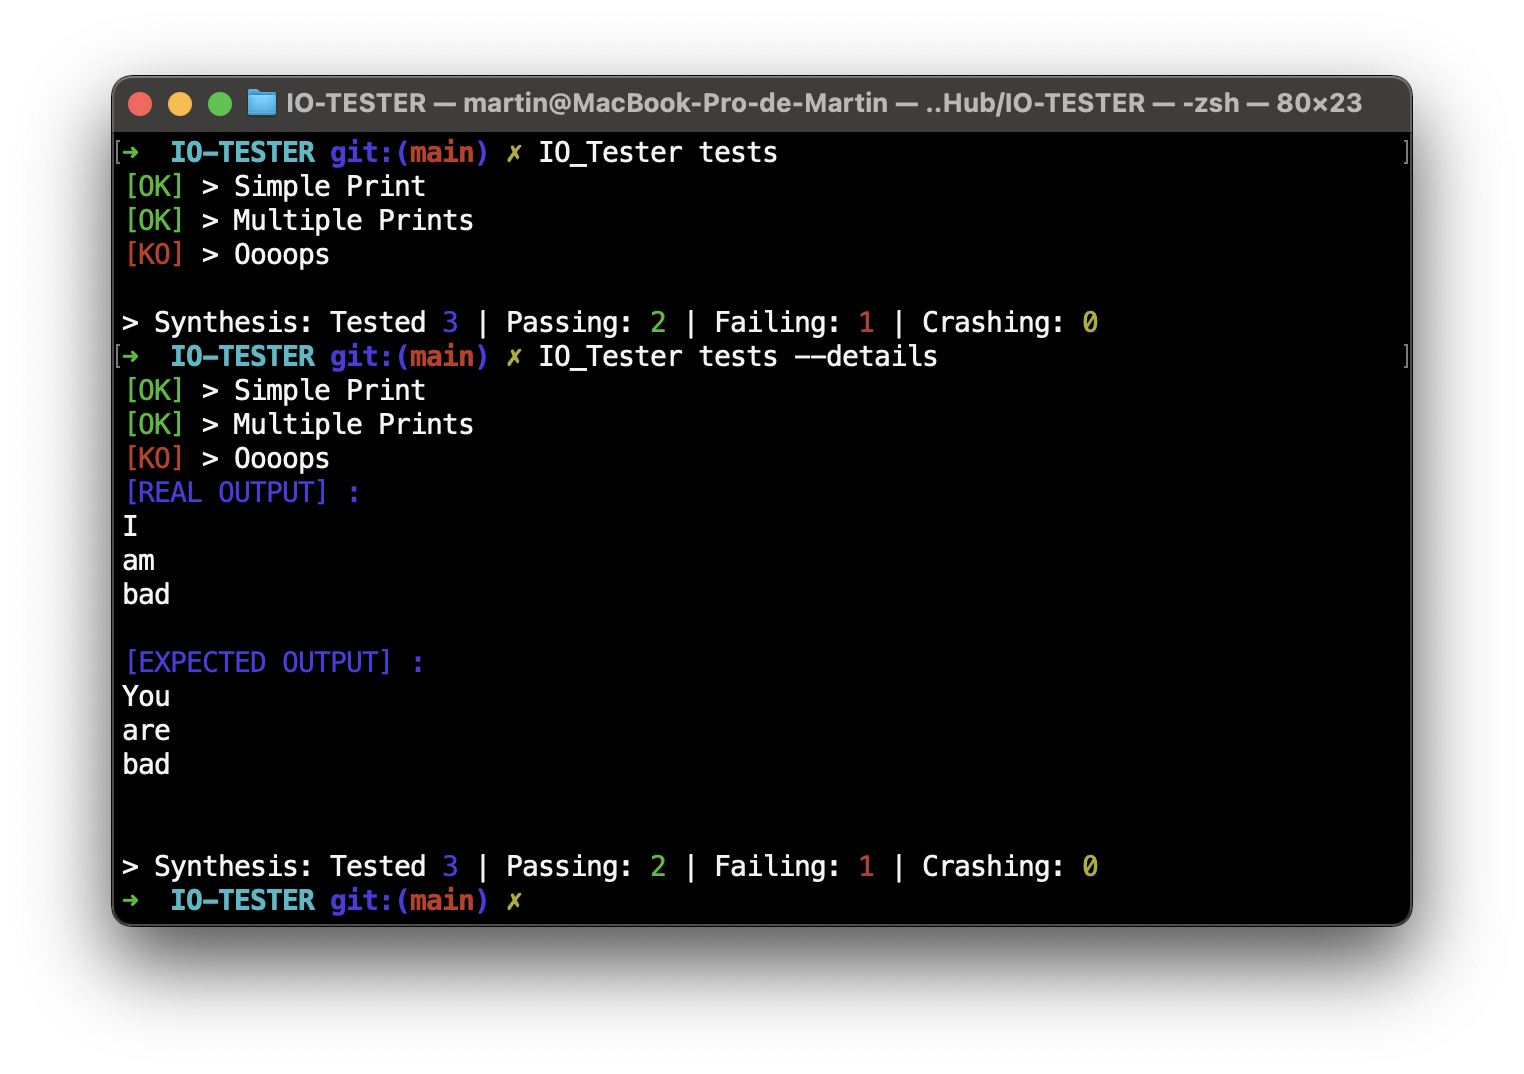
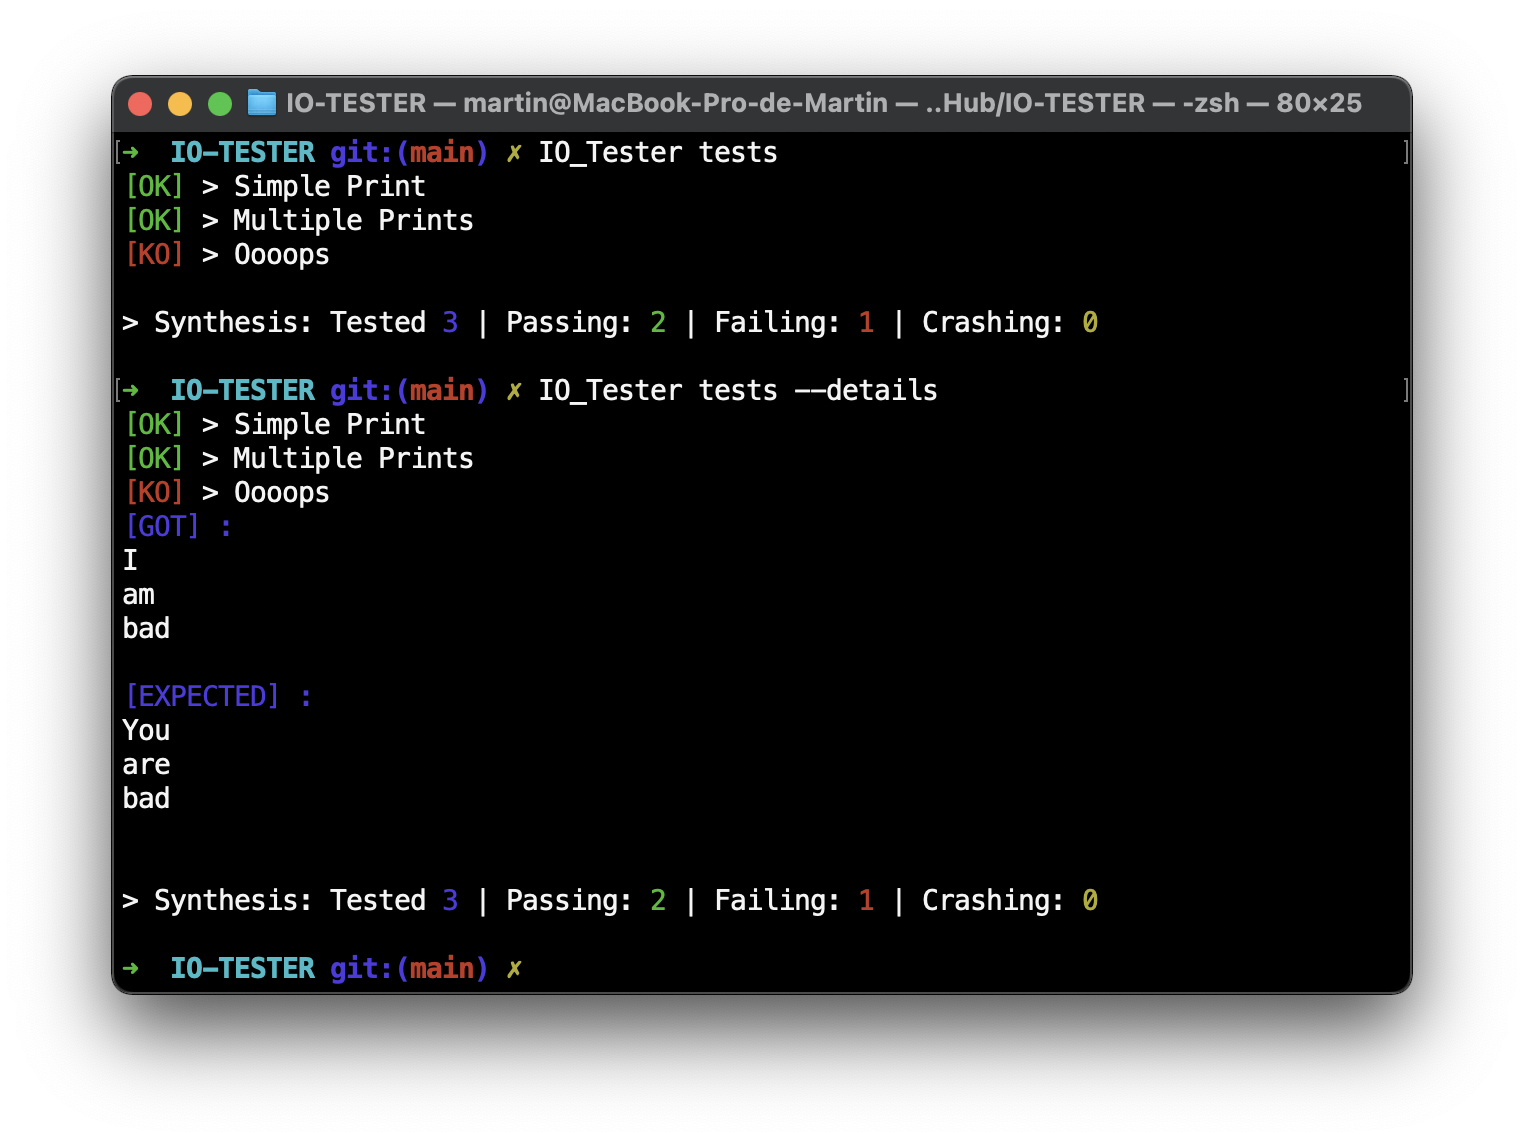
[UPDATE] (1.2) [ADD] VS Code diff (--diff)

diff --git a/src/IO_Tester.cpp b/src/IO_Tester.cpp
@@ -1,6 +1,6 @@
 #include "IO_Tester.hpp"
-#include "Utils.hpp"
 #include <cstring>
+#include <unistd.h>
 
 void IOTester::Version()
 {
@@ -10,7 +10,7 @@ void IOTester::Version()
 }
 
 IOTester::IOTester(int ac, char **av) :
-    m_passed(0), m_failed(0), m_crashed(0), m_position(0), m_details(false)
+    m_passed(0), m_failed(0), m_crashed(0), m_position(0), m_details(NO), m_VSCodeBin(UNCHECKED)
 {
     if (ac < 2)
         ErrorHandling::Help(av[0], 84);
@@ -18,8 +18,12 @@ IOTester::IOTester(int ac, char **av) :
         ErrorHandling::Help(av[0], 0);
     if (strcmp(av[ac - 1], "-v") == 0 || strcmp(av[ac - 1], "--version") == 0)
         IOTester::Version();
-    if (ac > 2 && (strcmp(av[ac - 1], "-d") == 0 || strcmp(av[ac - 1], "--details") == 0)) {
-        m_details = true;
+    if (ac > 2 && (strcmp(av[ac - 1], "--details") == 0)) {
+        m_details = DETAILS;
+        ac--;
+    }
+    if (ac > 2 && (strcmp(av[ac - 1], "--diff") == 0)) {
+        m_details = DIFF;
         ac--;
     }
     for (int i = 1; i < ac; i++) {
@@ -31,6 +35,11 @@ IOTester::IOTester(int ac, char **av) :
         apply();
         resetValues();
     }
+    if (m_VSCodeBin == KO) {
+        std::cerr << std::endl << RED << "You need to install Visual Studio Code to show diff" << std::endl;
+        std::cerr << "Use --details otherwise" << RESET << std::endl;
+    }
+    std::cout << std::endl;
 }
 
 void IOTester::resetValues()
@@ -80,6 +89,39 @@ Test IOTester::getTestData()
     return t;
 }
 
+void IOTester::VSCodeDiff(const Test &t, const Utils::CMD &c)
+{
+    std::string filename1 = "\"/tmp/GOT(" + t.m_name + ")\"";
+    std::string filename2 = "\"/tmp/EXPECTED(" + t.m_name + ")\"";
+    std::string s1 = "echo \"" + c.output + "\" > " + filename1;
+    std::string s2 = "echo \"" + t.m_output + "\" > " + filename2;
+
+    system(std::string(s1 + " ; " + s2).c_str());
+    system(std::string(VSCodePath + filename1 + " " + filename2).c_str());
+}
+
+void IOTester::checkVSCodeBin()
+{
+#ifdef __APPLE__
+    if (access((std::string("/Applications/Visual Studio Code.app/Contents/Resources/app/bin/code").c_str()), X_OK) != -1) {
+        m_VSCodeBin = OK;
+        return;
+    }
+    m_VSCodeBin = KO;
+    return;
+#endif
+    char* env_p = std::getenv("PATH");
+    auto PATHList = Utils::string_to_vector(env_p, ':');
+
+    for (auto &path : PATHList) {
+        if (access((std::string(path + "/code").c_str()), X_OK) != -1) {
+            m_VSCodeBin = OK;
+            return;
+        }
+    }
+    m_VSCodeBin = KO;
+}
+
 void IOTester::comparator(Test t)
 {
     Utils::CMD c = Utils::get_cmd_output(t.m_cmd);
@@ -100,23 +142,17 @@ void IOTester::comparator(Test t)
     else if (t.m_output == c.output) {
         std::cout << GRN << "[OK]" << RESET << " > " << t.m_name << std::endl;
         m_passed++;
-    } else {
+    }
+    else {
         std::cout << RED << "[KO]" << RESET << " > " << t.m_name << std::endl;
         m_failed++;
-        if (0 /* if --diff flag */) {
-            std::string filename1 = "\"/tmp/io_tester_got_" + t.m_name + "\"";
-            std::string filename2 = "\"/tmp/io_tester_expected_" + t.m_name + "\"";
-            std::string s1 = "echo \"" + c.output + "\" > " + filename1;
-            std::string s2 = "echo \"" + t.m_output + "\" " + filename2;
-            std::string command = "vimdiff " + filename1 + " " + filename2;
-
-            system(s1.c_str());
-            system(s2.c_str());
-            system(command.c_str());
-            command = "rm " + filename1 + " " + filename2;
-            system(command.c_str());
-        } else if (m_details) {
-            std::cout << BLU << "[REAL OUTPUT] :" << RESET << std::endl << c.output << std::endl << BLU << "[EXPECTED OUTPUT] :" << RESET << std::endl << t.m_output << std::endl;
+        if (m_details == DETAILS)
+            std::cout << BLU << "[GOT] :" << RESET << std::endl << c.output << std::endl << BLU << "[EXPECTED] :" << RESET << std::endl << t.m_output << std::endl;
+        else if (m_details == DIFF) {
+            if (m_VSCodeBin == UNCHECKED)
+                checkVSCodeBin();
+            if (m_VSCodeBin == OK)
+                VSCodeDiff(t, c);
         }
     }
 }
@@ -131,6 +167,6 @@ void IOTester::printFinalResults() const
 
 int main(int ac, char **av)
 {
-    IOTester(ac, av);
+    IOTester app(ac, av);
     return EXIT_SUCCESS;
 }

diff --git a/src/IO_Tester.hpp b/src/IO_Tester.hpp
@@ -2,10 +2,17 @@
 #define IO_TESTER_H
 
 #include "ErrorHandling.hpp"
-#include <iostream>
+#include "Utils.hpp"
+#include <string>
 #include <vector>
 
-#define VERSION "1.1"
+#define VERSION "1.2"
+
+#ifdef __APPLE__
+#define VSCodePath "\"/Applications/Visual Studio Code.app/Contents/Resources/app/bin/code\" --diff "
+#else
+#define VSCodePath "code --diff "
+#endif
 
 class Test
 {
@@ -22,15 +29,12 @@ public:
 
 class IOTester
 {
-private:
-    int m_passed;
-    int m_failed;
-    int m_crashed;
-    size_t m_position;
-    bool m_details;
-    std::vector<std::string> m_file;
 public:
+    enum Details {NO, DETAILS, DIFF};
+    enum VSCodeBin {KO, OK, UNCHECKED};
+
     static void Version();
+    static void VSCodeDiff(const Test &t, const Utils::CMD &c);
     IOTester(int ac, char **av);
     ~IOTester() = default;
     Test getTestData();
@@ -38,6 +42,15 @@ public:
     void printFinalResults() const;
     void apply();
     void resetValues();
+    void checkVSCodeBin();
+private:
+    int m_passed;
+    int m_failed;
+    int m_crashed;
+    size_t m_position;
+    Details m_details;
+    VSCodeBin m_VSCodeBin;
+    std::vector<std::string> m_file;
 };
 
 #endif

diff --git a/src/ErrorHandling.cpp b/src/ErrorHandling.cpp
@@ -5,10 +5,11 @@ enum CheckStatus {Input, Output};
 
 void ErrorHandling::Help(const char *bin, int returnValue)
 {
-    std::cout << "Usage: \t\t" << bin << " [files]" << std::endl;
-    std::cout << "Help menu : \t" << bin << " [-h || --help]" << std::endl;
-    std::cout << "Show version : \t" << bin << " [-v || --version]" << std::endl;
-    std::cout << "Show details : \t" << bin << " [files] [-d || --details]" << std::endl;
+    std::cout << "Usage: \t\t\t" << bin << " [files]" << std::endl;
+    std::cout << "Help menu : \t\t" << bin << " [-h || --help]" << std::endl;
+    std::cout << "Show version : \t\t" << bin << " [-v || --version]" << std::endl;
+    std::cout << "Show details : \t\t" << bin << " [files] [--details]" << std::endl;
+    std::cout << "Show diff on VS Code : \t" << bin << " [files] [--diff]" << std::endl;
     exit(returnValue);
 }
 

diff --git a/src/Utils.cpp b/src/Utils.cpp
@@ -15,11 +15,10 @@ Utils::CMD Utils::get_cmd_output(const std::string &command)
     CMD ret;
     ret.error = false;
 
-    FILE* pipe = popen(command.c_str(), "r");
+    FILE *pipe = popen(command.c_str(), "r");
     if (!pipe) {
         ret.error = true;
         ret.returnValue = -1;
-        ret.output = "Pipe Failed !";
         return ret;
     }
     while (!feof(pipe)) {
@@ -32,7 +31,7 @@ Utils::CMD Utils::get_cmd_output(const std::string &command)
 
 std::string Utils::get_file_content(const std::string &in)
 {
-    DIR* dir = opendir(in.c_str());
+    DIR *dir = opendir(in.c_str());
     if (dir)
         my_exit(84, "Cannot open directory [" + in + "], exiting...");
     std::ifstream file;

diff --git a/src/ErrorHandling.hpp b/src/ErrorHandling.hpp
@@ -1,8 +1,8 @@
 #ifndef ERROR_HANDLING_H
 #define ERROR_HANDLING_H
 
-#include <iostream>
 #include <vector>
+#include <string>
 
 namespace ErrorHandling
 {

diff --git a/README.md b/README.md
@@ -52,9 +52,17 @@ bad
 
 [END]
 ```
-Then execute `IO_Tester` with the file containing the tests as argument. You can add `-d` or `--details` as final argument to display the real and the expected output when a test fails.
+Then execute `IO_Tester` with the file containing the tests as argument.
+
+You can add `--details` as final argument to display the real and the expected output when a test fails.
 ![Details](exemples/exemple.png)
+You can add `--diff` as final argument to display the diff between the real and the expected output in VS Code when a test fails.
+![Details](exemples/diffexemple.png)
 You can also run multiple test files at once :
 ```sh
-IO_Tester test1 test2 test3 --details
+IO_Tester test1 test2 test3 --diff
 ```
+## Contributors
+
+ - [Benjamin Reigner](https://github.com/Breigner01)
+ - [Alexandre Chetrit](https://github.com/chetrit)
